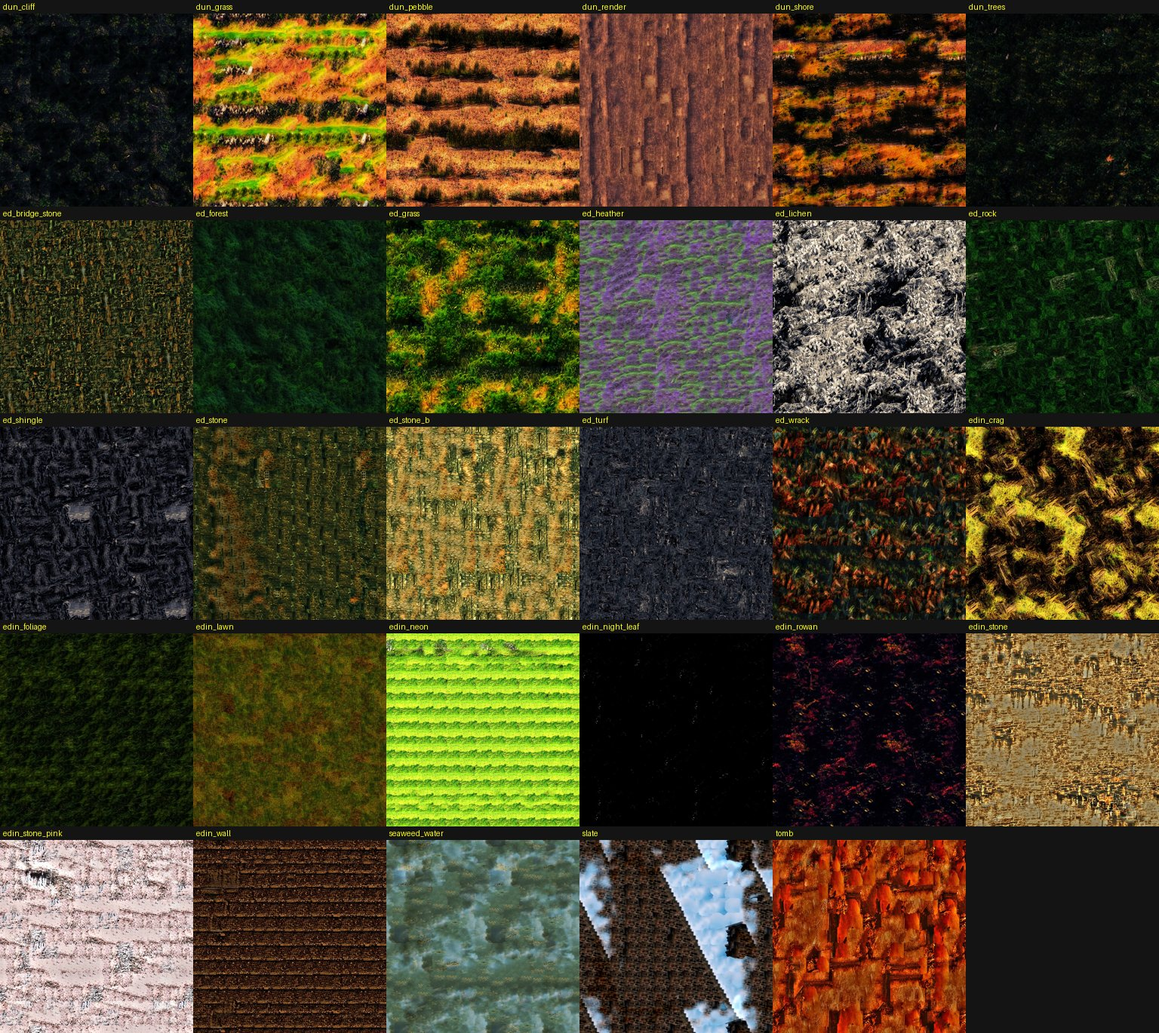
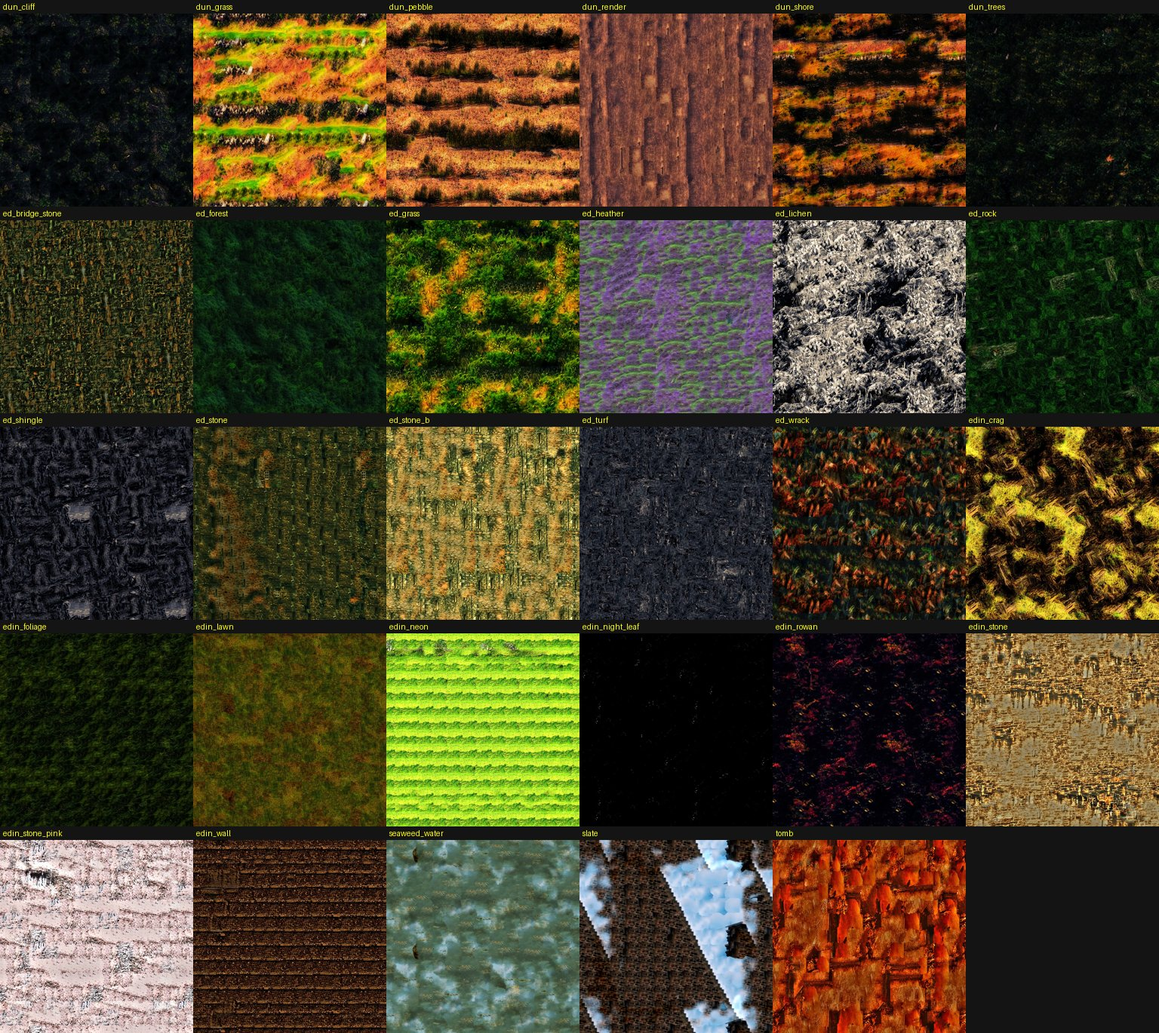
Touch controls, controls help card, and stray-fragment fixes on the loch
- Mobile: thumb joystick to walk (rim = run), drag to look, tappable "Step into"
  prompt and Atlas button, touch wording, lighter grass and 1x pixel ratio on phones.
- Help card ("?" button, H/? key) with desktop keys or touch gestures; shown once
  to first-time visitors.
- Loch: footholds at in-water viewpoints stay just under the surface (they poked
  out as tiny textured islets that read as stray fragments); bed colour sampled
  from the right place (no false green glow); the water no longer takes photo
  pixels (photographs' water is reflection); weed texture re-cut away from the
  castle's reflection.

Changed region(s): [[0.3125, 0.7971, 0.5, 1.0]]

diff --git a/index.html b/index.html
@@ -33,7 +33,7 @@
   #status { font-size: 11px; letter-spacing: 0.24em; text-transform: uppercase; color: var(--faint); margin-top: 16px; min-height: 1em; }
 
   /* intro over the first photograph */
-  #intro { z-index: 25; display: flex; flex-direction: column; align-items: center; justify-content: flex-end; padding-bottom: 9vh; pointer-events: auto; cursor: pointer;
+  #intro { z-index: 25; padding-left: 18px; padding-right: 18px; text-align: center; display: flex; flex-direction: column; align-items: center; justify-content: flex-end; padding-bottom: 9vh; pointer-events: auto; cursor: pointer;
     background: linear-gradient(to top, rgba(0,0,0,0.72) 0%, rgba(0,0,0,0.25) 38%, rgba(0,0,0,0) 60%); }
   #intro .enter { margin-top: 34px; font-size: 11px; letter-spacing: 0.34em; text-transform: uppercase; color: var(--ink); border: 1px solid var(--faint); padding: 14px 26px; border-radius: 999px; backdrop-filter: blur(6px); background: rgba(0,0,0,0.18); }
   #intro .keys { margin-top: 18px; font-size: 11px; color: var(--dim); letter-spacing: 0.08em; }
@@ -96,11 +96,46 @@
   #copyright.dim { opacity: 0.35; }
   canvas, .thumb { -webkit-user-select: none; user-select: none; -webkit-user-drag: none; }
 
+  #prompt.hidden { pointer-events: none; }
+  #prompt:not(.hidden) span, #prompt:not(.hidden) b { pointer-events: auto; cursor: pointer; }
+  #tour .label { cursor: pointer; pointer-events: auto; border: 1px solid transparent; border-radius: 999px; padding: 8px 14px; }
+  #tour .label:hover { border-color: var(--faint); color: var(--ink); }
+
+  /* touch joystick */
+  #joystick { position: fixed; left: 26px; bottom: 90px; width: 124px; height: 124px; border-radius: 50%; z-index: 13;
+    border: 1px solid rgba(243,236,224,0.35); background: rgba(0,0,0,0.18); backdrop-filter: blur(2px); touch-action: none; transition: opacity 0.6s ease; }
+  #joystick .knob { position: absolute; left: 50%; top: 50%; width: 52px; height: 52px; margin: -26px 0 0 -26px; border-radius: 50%;
+    background: rgba(243,236,224,0.32); border: 1px solid rgba(243,236,224,0.6); }
+
+  /* help */
+  #helpBtn { position: fixed; right: 22px; bottom: 40px; z-index: 14; width: 30px; height: 30px; border-radius: 50%; border: 1px solid var(--faint);
+    background: rgba(0,0,0,0.3); color: var(--dim); display: flex; align-items: center; justify-content: center; font-size: 13px; cursor: pointer; user-select: none; }
+  #helpBtn:hover { color: var(--gold); border-color: var(--gold); }
+  #help { z-index: 21; display: flex; align-items: center; justify-content: center; background: rgba(0,0,0,0.35); pointer-events: auto; }
+  #help .card { background: rgba(10,10,10,0.82); backdrop-filter: blur(8px); border: 1px solid rgba(243,236,224,0.15); border-radius: 10px; padding: 26px 32px; min-width: min(420px, 86vw); }
+  #help .h { font-family: var(--serif); font-size: 22px; letter-spacing: 0.12em; text-transform: uppercase; margin-bottom: 16px; color: var(--gold); }
+  #help .card > div > div { display: flex; gap: 16px; padding: 6px 0; border-bottom: 1px solid rgba(243,236,224,0.07); font-size: 13px; }
+  #help b { min-width: 110px; color: var(--ink); font-weight: 500; letter-spacing: 0.04em; }
+  #help span { color: var(--dim); }
+  #help .close { margin-top: 16px; font-size: 10px; letter-spacing: 0.24em; text-transform: uppercase; color: var(--faint); }
+  .keys-touch { display: none; }
+  body.touch .keys-touch { display: block; }
+  body.touch .keys-desktop { display: none; }
+  body.touch #hints { display: none; }
+  body.touch #caption { bottom: 230px; }
+  body.touch #prompt { top: 92px; bottom: auto; }
+  body.touch #prompt b { display: none; }
+  body.touch #prompt span { border: 1px solid var(--dim); border-radius: 999px; padding: 12px 18px; background: rgba(0,0,0,0.35); }
+
   #err { z-index: 40; background: #120a0a; display: none; align-items: center; justify-content: center; text-align: center; padding: 10vw; font-family: var(--serif); font-size: 20px; pointer-events: auto; }
 
   @media (max-width: 640px) {
     #hints { display: none; }
-    #caption { left: 16px; right: 16px; bottom: 28px; }
+    #caption { left: 16px; right: 16px; bottom: 230px; }
+    #compass { width: 92vw; }
+    #tour .label { min-width: 90px; }
+    #copyright { font-size: 8px; right: 12px; bottom: 6px; }
+    #helpBtn { right: 12px; bottom: 26px; }
   }
 </style>
 <script type="importmap">
@@ -121,14 +156,41 @@
   <h1>Tapestry</h1>
   <div class="sub">Every hill, stone, cloud and blade of grass here was taken from a photograph.</div>
   <div class="enter">Click to step into the photograph</div>
-  <div class="keys">Drag to look · W A S D to walk · Shift to run · [ ] to travel between photographs</div>
+  <div class="keys">Drag to look · W A S D to walk · Shift to run · [ ] to travel between photographs · H for help</div>
 </div>
 
 <div id="caption" class="layer fade hidden"><div class="rule"></div><div class="t"></div><div class="c"></div></div>
 <div id="prompt" class="layer fade hidden"><b>E</b><span></span></div>
 <div id="reticle" class="layer fade hidden"></div>
 <div id="compass" class="layer fade hidden"><div class="line"></div></div>
-<div id="tour" class="layer fade hidden"><div class="arrow" id="tourPrev" title="Previous photograph  [">&#8249;</div><div class="label">Travel</div><div class="arrow" id="tourNext" title="Next photograph  ]">&#8250;</div></div>
+<div id="tour" class="layer fade hidden"><div class="arrow" id="tourPrev" title="Previous photograph  [">&#8249;</div><div class="label" id="tourAtlas" title="Atlas of photographs  M">Atlas</div><div class="arrow" id="tourNext" title="Next photograph  ]">&#8250;</div></div>
+<div id="joystick" class="hidden"><div class="knob"></div></div>
+<div id="helpBtn" title="Controls  (H)">?</div>
+<div id="help" class="layer fade hidden">
+  <div class="card">
+    <div class="h">How to explore</div>
+    <div class="keys-desktop">
+      <div><b>Drag</b><span>look around</span></div>
+      <div><b>W A S D</b><span>walk &nbsp;(arrow keys too)</span></div>
+      <div><b>Shift</b><span>run</span></div>
+      <div><b>Space</b><span>jump</span></div>
+      <div><b>E</b><span>step into a nearby photograph</span></div>
+      <div><b>[ &nbsp; ]</b><span>fly to the previous / next photograph</span></div>
+      <div><b>M</b><span>atlas of all photographs</span></div>
+      <div><b>F</b><span>fly mode (Space up, C down)</span></div>
+      <div><b>N</b><span>sound on / off</span></div>
+      <div><b>H</b><span>show / hide this card</span></div>
+    </div>
+    <div class="keys-touch">
+      <div><b>Left thumb</b><span>joystick to walk &mdash; push to the edge to run</span></div>
+      <div><b>Drag</b><span>anywhere else to look around</span></div>
+      <div><b>Tap the prompt</b><span>to step into a photograph</span></div>
+      <div><b>&lsaquo; &nbsp; &rsaquo;</b><span>fly to the previous / next photograph</span></div>
+      <div><b>Atlas</b><span>all thirteen photographs</span></div>
+    </div>
+    <div class="close">Tap or press H to close</div>
+  </div>
+</div>
 <div id="hints" class="layer fade hidden">
   <div><b>M</b> atlas of photographs</div>
   <div><b>E</b> step into a photograph</div>

diff --git a/src/main.js b/src/main.js
@@ -56,7 +56,13 @@ async function main() {
   document.addEventListener('contextmenu', (e) => e.preventDefault());
   const renderer = new THREE.WebGLRenderer({ canvas, antialias: false, powerPreference: 'high-performance', stencil: false });
   if (!renderer.capabilities.isWebGL2) throw new Error('WebGL2 is required');
-  let pixelScale = Math.min(window.devicePixelRatio || 1, 1.25);
+  const IS_TOUCH = matchMedia('(pointer: coarse)').matches || ('ontouchstart' in window && navigator.maxTouchPoints > 0);
+  if (IS_TOUCH) {
+    document.body.classList.add('touch');
+    document.querySelector('#intro .keys').textContent = 'Drag to look · left thumb-stick to walk · ‹ › to travel between photographs';
+    document.querySelector('#intro .enter').textContent = 'Tap to step into the photograph';
+  }
+  let pixelScale = Math.min(window.devicePixelRatio || 1, IS_TOUCH ? 1.0 : 1.25);
   renderer.setPixelRatio(pixelScale);
   renderer.setSize(innerWidth, innerHeight);
   renderer.shadowMap.enabled = true;
@@ -184,7 +190,7 @@ async function main() {
   groundRT.texture.minFilter = THREE.LinearMipmapLinearFilter;
   const water = createWater({ heightTex: hmap.tex, hmap, groundTex: groundRT.texture, seaweedTex: textures.seaweed });
   scene.add(water.mesh);
-  const grass = createGrass({ heightTex: hmap.tex, groundTex: groundRT.texture, hmap });
+  const grass = createGrass({ heightTex: hmap.tex, groundTex: groundRT.texture, hmap, count: IS_TOUCH ? 110 : 170 });
   scene.add(grass.mesh);
 
   // memories (floating photographs)
@@ -484,6 +490,47 @@ async function main() {
     }
   });
 
+  // ---- help card, tappable prompt, atlas button, touch joystick
+  function setHelp(on) { $('help').classList.toggle('hidden', !on); S.helpOpen = on; }
+  $('helpBtn').addEventListener('click', (e) => { e.stopPropagation(); setHelp(!S.helpOpen); });
+  $('help').addEventListener('click', () => setHelp(false));
+  addEventListener('keydown', (e) => {
+    if (e.code === 'KeyH' || e.key === '?') setHelp(!S.helpOpen);
+    else if (e.code === 'Escape' && S.helpOpen) setHelp(false);
+  });
+  $('prompt').addEventListener('click', (e) => {
+    e.stopPropagation();
+    if (S.mode !== 'walk') return;
+    const m = memories.nearest(camera.position);
+    if (m) enterMemory(m.p.index);
+  });
+  $('tourAtlas').addEventListener('click', (e) => { e.stopPropagation(); showAtlas(); });
+
+  const joy = $('joystick'), knob = joy.querySelector('.knob');
+  let joyId = null, joyCx = 0, joyCy = 0;
+  const JOY_R = 50;
+  const joyMove = (e) => {
+    let dx = e.clientX - joyCx, dy = e.clientY - joyCy;
+    const d = Math.hypot(dx, dy);
+    if (d > JOY_R) { dx *= JOY_R / d; dy *= JOY_R / d; }
+    knob.style.transform = `translate(${dx}px, ${dy}px)`;
+    player.touchMove.x = dx / JOY_R; player.touchMove.y = dy / JOY_R;
+  };
+  joy.addEventListener('pointerdown', (e) => {
+    e.stopPropagation(); e.preventDefault();
+    joyId = e.pointerId; try { joy.setPointerCapture(e.pointerId); } catch (err) { /* synthetic pointer */ }
+    const r = joy.getBoundingClientRect(); joyCx = r.left + r.width / 2; joyCy = r.top + r.height / 2;
+    joyMove(e);
+  });
+  joy.addEventListener('pointermove', (e) => { if (e.pointerId === joyId) joyMove(e); });
+  const joyEnd = (e) => {
+    if (e.pointerId !== joyId) return;
+    joyId = null; knob.style.transform = ''; player.touchMove.x = player.touchMove.y = 0;
+  };
+  joy.addEventListener('pointerup', joyEnd);
+  joy.addEventListener('pointercancel', joyEnd);
+  const updateTouchUI = () => joy.classList.toggle('hidden', !(IS_TOUCH && (S.mode === 'walk' || S.mode === 'memory') && !S.atlasOpen));
+
   // debugging / calibration API
   window.T = { meshHeightAt, THREE, scene, camera, player, projectors, zones, world, renderer, post, heightAt, landDistance, S, enterMemory, travelTo, terrain, castles, water, grass, trees, rocks, sun, sky, terrainMat, setPixelScale: (v) => { pixelScale = v; resize(); }, noAdapt: false };
 
@@ -523,8 +570,9 @@ async function main() {
       S.mode = 'memory';
       S.overlayDim = 0;
       setTimeout(() => showCaption(p0, 1e9), 600);
-      setTimeout(() => $('hints').classList.remove('hidden'), 2500);
-      setTimeout(() => $('hints').classList.add('hidden'), 16000);
+      let seen = false;
+      try { seen = localStorage.getItem('tapestry-help-seen') === '1'; localStorage.setItem('tapestry-help-seen', '1'); } catch (e) { /* private mode */ }
+      if (!seen) setTimeout(() => setHelp(true), 1800);
     }, { once: true });
   }
 
@@ -734,6 +782,7 @@ async function main() {
     }
 
     updateCompass();
+    updateTouchUI();
 
     // --- audio
     if (audio.ctx) {
@@ -758,7 +807,7 @@ async function main() {
     S.adaptT = (S.adaptT || 0) + dt;
     if (!CALIB && !window.T.noAdapt && S.time > 5 && S.adaptT > 4) {
       if (frameAvg > 42 && pixelScale > 0.7) { pixelScale = Math.max(0.7, pixelScale - 0.1); resize(); frameAvg = 30; S.adaptT = 0; }
-      else if (frameAvg < 15 && pixelScale < Math.min(window.devicePixelRatio || 1, 1.5)) { pixelScale = Math.min(1.5, pixelScale + 0.05); resize(); frameAvg = 16; S.adaptT = 0; }
+      else if (frameAvg < 15 && pixelScale < Math.min(window.devicePixelRatio || 1, IS_TOUCH ? 1.0 : 1.5)) { pixelScale = Math.min(IS_TOUCH ? 1.0 : 1.5, pixelScale + 0.05); resize(); frameAvg = 16; S.adaptT = 0; }
     }
   }
   frame();

diff --git a/src/player.js b/src/player.js
@@ -105,6 +105,7 @@ export class Player {
     this.wading = 0;
     this.lookDelta = 0;
     this.moveIntent = 0;
+    this.touchMove = { x: 0, y: 0 }; // virtual joystick (-1..1); y < 0 = forward
     this.sensitivity = 0.0021;
     addEventListener('keydown', (e) => { this.keys[e.code] = true; if (e.code === 'KeyF' && this.enabled) this.fly = !this.fly; });
     addEventListener('keyup', (e) => { this.keys[e.code] = false; });
@@ -113,9 +114,9 @@ export class Player {
     this.lastX = 0; this.lastY = 0;
     dom.addEventListener('pointerdown', (e) => {
       this.dragging = true; this.lastX = e.clientX; this.lastY = e.clientY;
-      dom.setPointerCapture?.(e.pointerId);
+      try { dom.setPointerCapture(e.pointerId); } catch (err) { /* synthetic pointer */ }
     });
-    const end = (e) => { this.dragging = false; dom.releasePointerCapture?.(e.pointerId); };
+    const end = (e) => { this.dragging = false; try { dom.releasePointerCapture(e.pointerId); } catch (err) { /* not captured */ } };
     dom.addEventListener('pointerup', end);
     dom.addEventListener('pointercancel', end);
     dom.addEventListener('pointermove', (e) => {
@@ -134,6 +135,7 @@ export class Player {
 
   wantsToMove() {
     const k = this.keys;
+    if (this.enabled && Math.hypot(this.touchMove.x, this.touchMove.y) > 0.15) return true;
     return this.enabled && !!(k.KeyW || k.KeyA || k.KeyS || k.KeyD || k.ArrowUp || k.ArrowDown || k.ArrowLeft || k.ArrowRight || k.Space);
   }
 
@@ -157,13 +159,21 @@ export class Player {
 
   update(dt) {
     const k = this.keys;
-    const fwd = (k.KeyW || k.ArrowUp ? 1 : 0) - (k.KeyS || k.ArrowDown ? 1 : 0);
-    const str = (k.KeyD || k.ArrowRight ? 1 : 0) - (k.KeyA || k.ArrowLeft ? 1 : 0);
+    let fwd = (k.KeyW || k.ArrowUp ? 1 : 0) - (k.KeyS || k.ArrowDown ? 1 : 0);
+    let str = (k.KeyD || k.ArrowRight ? 1 : 0) - (k.KeyA || k.ArrowLeft ? 1 : 0);
+    // touch joystick: analog; pushed to the rim it runs
+    const tm = Math.hypot(this.touchMove.x, this.touchMove.y);
+    let analog = 1;
+    if (tm > 0.12 && !fwd && !str) {
+      fwd = -this.touchMove.y / tm; str = this.touchMove.x / tm;
+      analog = Math.min(1, (tm - 0.12) / 0.7);
+    }
     this.moveIntent = this.enabled ? Math.abs(fwd) + Math.abs(str) : 0;
-    const sprint = k.ShiftLeft || k.ShiftRight;
+    const sprint = k.ShiftLeft || k.ShiftRight || tm > 0.92;
     const sy = Math.sin(this.yaw), cy = Math.cos(this.yaw);
     let speed = this.fly ? (sprint ? 90 : 26) : (sprint ? 18 : 6.2);
     if (!this.enabled) speed = 0;
+    if (!sprint) speed *= analog;
     if (this.fly) {
       const cp = Math.cos(this.pitch), sp = Math.sin(this.pitch);
       const dir = new THREE.Vector3(sy * cp * fwd + cy * str, sp * fwd + ((k.Space ? 1 : 0) - (k.KeyC || k.ControlLeft ? 1 : 0)), -cy * cp * fwd + sy * str);

diff --git a/src/world/water.js b/src/world/water.js
@@ -85,7 +85,7 @@ export function createWater({ heightTex, hmap, groundTex, seaweedTex, renderScal
         float mirror = clamp(uMirror + (1.0 - uMirror) * fres, 0.0, 1.0);
 
         // looking down into the shallows we see the bed (ground albedo map), tinted by water
-        vec3 groundC = (huv.x > 0.0 && huv.x < 1.0 && huv.y > 0.0 && huv.y < 1.0) ? texture(uGround, huv + n.xz * 0.0006).rgb : uDeep;
+        vec3 groundC = (huv.x > 0.0 && huv.x < 1.0 && huv.y > 0.0 && huv.y < 1.0) ? texture(uGround, vec2(huv.x, 1.0 - huv.y) + n.xz * 0.0006).rgb : uDeep;
         float clarity = exp(-depth * 1.4);
         vec3 body = mix(uDeep, mix(uShallow, groundC * 0.7, 0.6), clarity);
         float seeThrough = clarity * (1.0 - fres) * 0.3 * smoothstep(0.6, 0.0, depth);
@@ -109,8 +109,9 @@ export function createWater({ heightTex, hmap, groundTex, seaweedTex, renderScal
         float f = 1.0 - exp(-pow(uFogDensity * dist, 2.0));
         col = mix(col, uFogColor, f);
 
-        vec4 pj = projectPhotos(vWPos, vec3(0.0, 1.0, 0.0));
-        gl_FragColor = vec4(mix(col, pj.rgb, pj.a), pj.a);
+        // The loch never takes photo pixels: the photographs' water is mostly *reflection*, which
+        // belongs to no surface and would lie on the water as stray fragments of castle elsewhere.
+        gl_FragColor = vec4(col, 0.0);
       }`,
   });
   const geo = new THREE.PlaneGeometry(9000, 9000, 1, 1);

diff --git a/src/world/geography.js b/src/world/geography.js
@@ -251,7 +251,9 @@ export function heightAt(x, z, landOut) {
     const dx = x - p.x, dz = z - p.z;
     if (dx * dx + dz * dz < 196) {
       const d = Math.sqrt(dx * dx + dz * dz);
-      h = lerp(h, p.y + simplex(x / 2.5, z / 2.5) * 0.15, 1 - smoothstep(2.5, 14, d));
+      // in the loch the foothold stays just under the surface (no stray islets poking out)
+      const target = p.y < 0.4 ? Math.min(p.y, -0.3) : p.y + simplex(x / 2.5, z / 2.5) * 0.15;
+      h = lerp(h, target, 1 - smoothstep(2.5, 14, d));
     }
   }
 
